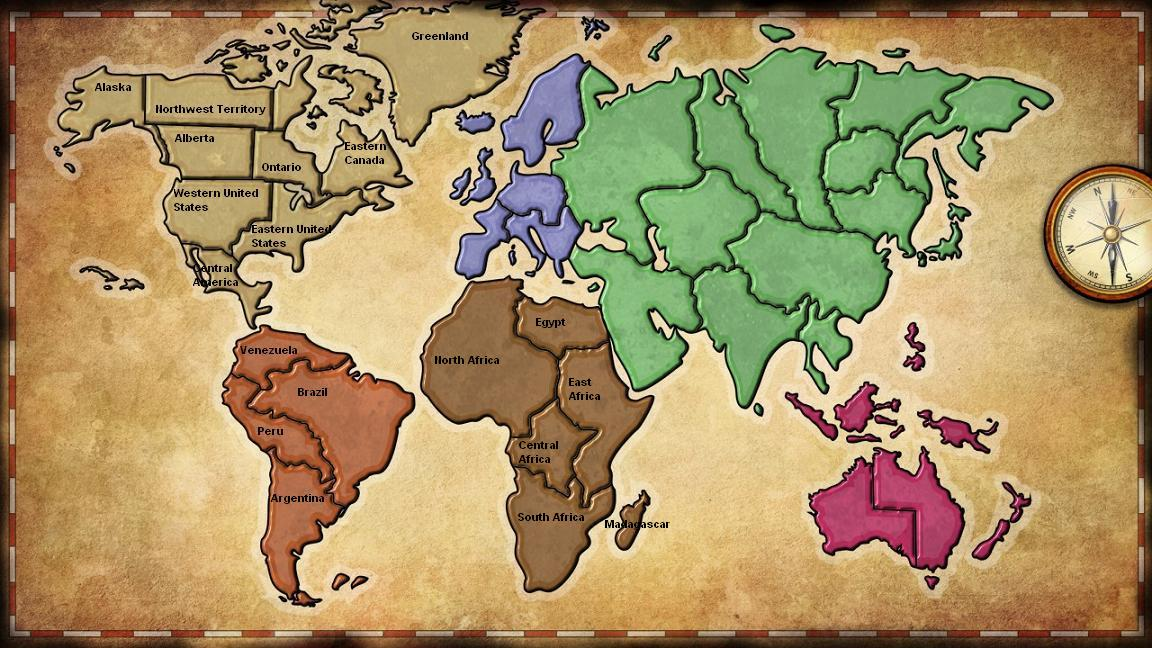
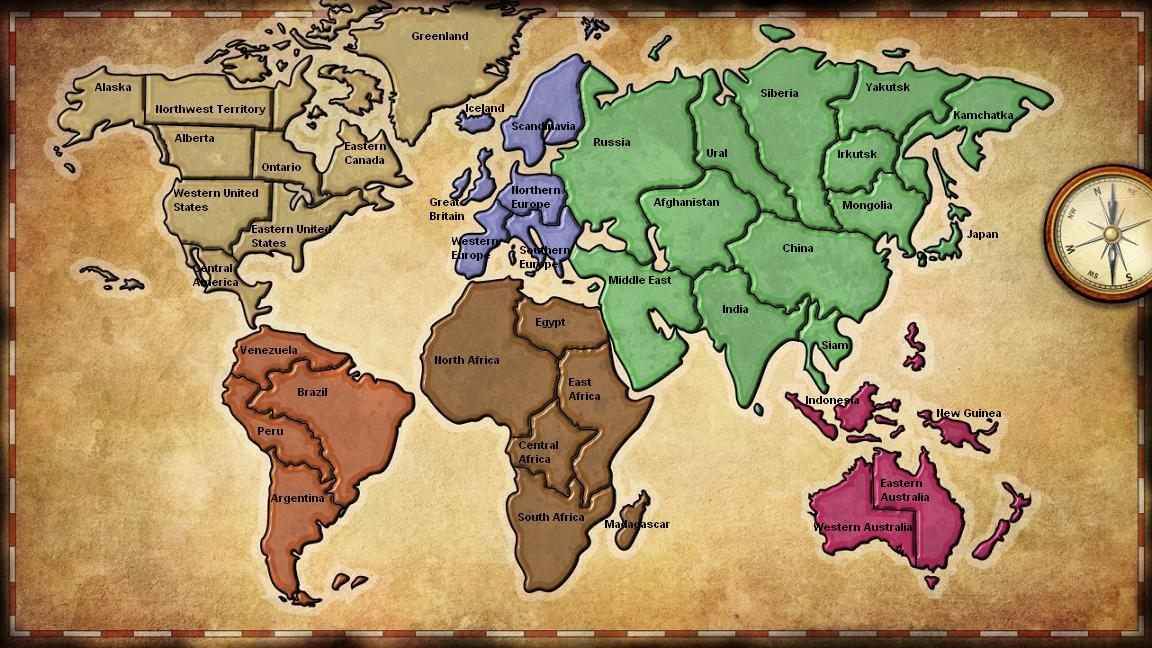
Buttons of the countries added

diff --git a/src/risk/view/MapPanel.java b/src/risk/view/MapPanel.java
@@ -17,6 +17,8 @@ import java.awt.Font;
 import java.awt.event.ActionListener;
 import java.awt.event.ActionEvent;
 import java.awt.Color;
+import javax.swing.JLabel;
+import java.awt.Dimension;
 
 public class MapPanel extends JPanel {
     ImageIcon image=new ImageIcon(getClass().getResource("/risk/view/Risk_small_names.jpg"));
@@ -25,38 +27,196 @@ public class MapPanel extends JPanel {
      * Create the panel.
      */
     public MapPanel() {
+        setMaximumSize(new Dimension(1152, 648));
+        setPreferredSize(new Dimension(1152, 648));
+        setMinimumSize(new Dimension(1152, 648));
         
         setLayout(new BorderLayout());
+        map.setPreferredSize(new Dimension(1152, 648));
+        map.setMaximumSize(new Dimension(1152, 648));
+        map.setMinimumSize(new Dimension(1152, 648));
         add(map, BorderLayout.CENTER);      
         
         ImagePanel backGround= new ImagePanel(image.getImage());
         backGround.setBounds(0, 0, 1152, 648);
         map.add(backGround);
         
-        JPanel panel = new JPanel();
-        panel.setOpaque(false);
-        map.setLayer(panel, 1);
-        panel.setBounds(0, 0, 1152, 648);
-        map.add(panel);
-        panel.setLayout(null);
+        JPanel buttonPanel = new JPanel();
+        buttonPanel.setOpaque(false);
+        map.setLayer(buttonPanel, 1);
+        buttonPanel.setBounds(0, 0, 1152, 648);
+        map.add(buttonPanel);
+        buttonPanel.setLayout(null);
         
-        JButton alaska = new JButton("23");
-        alaska.setForeground(Color.WHITE);
-        alaska.setBackground(Color.RED);
-        alaska.setBounds(86, 95, 50, 20);
-        panel.add(alaska);
+        JButton btnAlaska = new JButton("23");
+        btnAlaska.setForeground(Color.WHITE);
+        btnAlaska.setBackground(Color.RED);
+        btnAlaska.setBounds(86, 95, 50, 20);
+        buttonPanel.add(btnAlaska);
         
-        JButton nw_ter = new JButton("");
-        nw_ter.setBounds(160, 82, 50, 20);
-        panel.add(nw_ter);
+        JButton btnNW_Ter = new JButton("");
+        btnNW_Ter.setBounds(160, 82, 50, 20);
+        buttonPanel.add(btnNW_Ter);
         
-        JButton greenLand = new JButton("");
-        greenLand.setBounds(416, 48, 50, 20);
-        panel.add(greenLand);
+        JButton btnGreenLand = new JButton("");
+        btnGreenLand.setBounds(416, 48, 50, 20);
+        buttonPanel.add(btnGreenLand);
         
-        JButton alberta = new JButton("");
-        alberta.setBounds(185, 147, 50, 20);
-        panel.add(alberta);
+        JButton btnAlberta = new JButton("");
+        btnAlberta.setBounds(185, 147, 50, 20);
+        buttonPanel.add(btnAlberta);
+        
+        JButton btnOntario = new JButton("");
+        btnOntario.setBounds(258, 136, 50, 20);
+        buttonPanel.add(btnOntario);
+        
+        JButton btnE_Canada = new JButton("");
+        btnE_Canada.setBounds(330, 166, 50, 20);
+        buttonPanel.add(btnE_Canada);
+        
+        JButton btnW_USA = new JButton("");
+        btnW_USA.setBounds(185, 214, 50, 20);
+        buttonPanel.add(btnW_USA);
+        
+        JButton btnE_USA = new JButton("");
+        btnE_USA.setBounds(279, 204, 50, 20);
+        buttonPanel.add(btnE_USA);
+        
+        JButton btnCentral_America = new JButton("");
+        btnCentral_America.setBounds(219, 291, 50, 20);
+        buttonPanel.add(btnCentral_America);
+        
+        JButton btnVenezuela = new JButton("");
+        btnVenezuela.setBounds(242, 323, 50, 20);
+        buttonPanel.add(btnVenezuela);
+        
+        JButton btnBrazil = new JButton("");
+        btnBrazil.setBounds(331, 401, 50, 20);
+        buttonPanel.add(btnBrazil);
+        
+        JButton btnPeru = new JButton("");
+        btnPeru.setBounds(267, 438, 50, 20);
+        buttonPanel.add(btnPeru);
+        
+        JButton btnArgentina = new JButton("");
+        btnArgentina.setBounds(272, 506, 50, 20);
+        buttonPanel.add(btnArgentina);
+        
+        JButton btnNorth_Africa = new JButton("");
+        btnNorth_Africa.setBounds(466, 370, 50, 20);
+        buttonPanel.add(btnNorth_Africa);
+        
+        JButton btnSouth_Africa = new JButton("");
+        btnSouth_Africa.setBounds(526, 528, 50, 20);
+        buttonPanel.add(btnSouth_Africa);
+        
+        JButton btnEast_Africa = new JButton("");
+        btnEast_Africa.setBounds(583, 404, 50, 20);
+        buttonPanel.add(btnEast_Africa);
+        
+        JButton btnEgypt = new JButton("");
+        btnEgypt.setBounds(540, 328, 50, 20);
+        buttonPanel.add(btnEgypt);
+        
+        JButton btnCentral_Africa = new JButton("");
+        btnCentral_Africa.setBounds(523, 420, 50, 20);
+        buttonPanel.add(btnCentral_Africa);
+        
+        JButton btnMadagascar = new JButton("");
+        btnMadagascar.setBounds(624, 495, 50, 20);
+        buttonPanel.add(btnMadagascar);
+        
+        JButton btnScandinavia = new JButton("");
+        btnScandinavia.setBounds(523, 95, 50, 20);
+        buttonPanel.add(btnScandinavia);
+        
+        JButton btnIceland = new JButton("");
+        btnIceland.setBounds(451, 116, 50, 20);
+        buttonPanel.add(btnIceland);
+        
+        JButton btnGreat_Britain = new JButton("");
+        btnGreat_Britain.setBounds(439, 177, 50, 20);
+        buttonPanel.add(btnGreat_Britain);
+        
+        JButton btnW_Europe = new JButton("");
+        btnW_Europe.setBounds(466, 214, 50, 20);
+        buttonPanel.add(btnW_Europe);
+        
+        JButton btnS_Europe = new JButton("");
+        btnS_Europe.setBounds(526, 224, 50, 20);
+        buttonPanel.add(btnS_Europe);
+        
+        JButton btnN_Europe = new JButton("");
+        btnN_Europe.setBounds(508, 163, 50, 20);
+        buttonPanel.add(btnN_Europe);
+        
+        JButton btnRussia = new JButton("");
+        btnRussia.setBounds(595, 163, 50, 20);
+        buttonPanel.add(btnRussia);
+        
+        JButton btnMiddle_East = new JButton("");
+        btnMiddle_East.setBounds(609, 285, 50, 20);
+        buttonPanel.add(btnMiddle_East);
+        
+        JButton btnAfghanistan = new JButton("");
+        btnAfghanistan.setBounds(670, 214, 50, 20);
+        buttonPanel.add(btnAfghanistan);
+        
+        JButton btnIndia = new JButton("");
+        btnIndia.setBounds(725, 316, 50, 20);
+        buttonPanel.add(btnIndia);
+        
+        JButton btnChina = new JButton("");
+        btnChina.setBounds(776, 256, 50, 20);
+        buttonPanel.add(btnChina);
+        
+        JButton btnSiam = new JButton("");
+        btnSiam.setBounds(806, 316, 50, 20);
+        buttonPanel.add(btnSiam);
+        
+        JButton btnUral = new JButton("");
+        btnUral.setBounds(698, 126, 50, 20);
+        buttonPanel.add(btnUral);
+        
+        JButton btnSiberia = new JButton("");
+        btnSiberia.setBounds(776, 116, 50, 20);
+        buttonPanel.add(btnSiberia);
+        
+        JButton btnYakutsk = new JButton("");
+        btnYakutsk.setBounds(856, 94, 50, 20);
+        buttonPanel.add(btnYakutsk);
+        
+        JButton btnIrkutsk = new JButton("");
+        btnIrkutsk.setBounds(827, 163, 50, 20);
+        buttonPanel.add(btnIrkutsk);
+        
+        JButton btnMongolia = new JButton("");
+        btnMongolia.setBounds(858, 211, 50, 20);
+        buttonPanel.add(btnMongolia);
+        
+        JButton btnKamchatka = new JButton("");
+        btnKamchatka.setBounds(965, 89, 50, 20);
+        buttonPanel.add(btnKamchatka);
+        
+        JButton btnJapan = new JButton("");
+        btnJapan.setBounds(929, 240, 50, 20);
+        buttonPanel.add(btnJapan);
+        
+        JButton btnIndonesia = new JButton("");
+        btnIndonesia.setBounds(812, 406, 50, 20);
+        buttonPanel.add(btnIndonesia);
+        
+        JButton btnNew_Guinea = new JButton("");
+        btnNew_Guinea.setBounds(929, 420, 50, 20);
+        buttonPanel.add(btnNew_Guinea);
+        
+        JButton btnW_Australia = new JButton("");
+        btnW_Australia.setBounds(815, 495, 50, 20);
+        buttonPanel.add(btnW_Australia);
+        
+        JButton btnE_Australia = new JButton("");
+        btnE_Australia.setBounds(920, 506, 50, 20);
+        buttonPanel.add(btnE_Australia);
         
     }
 }
